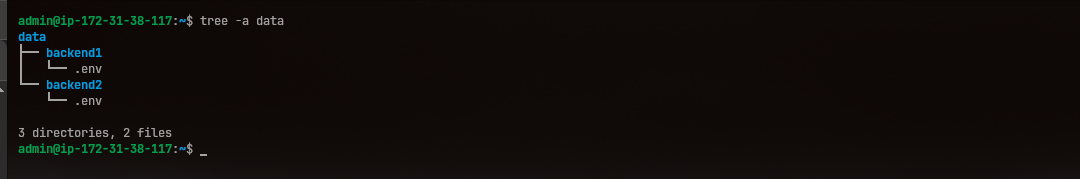
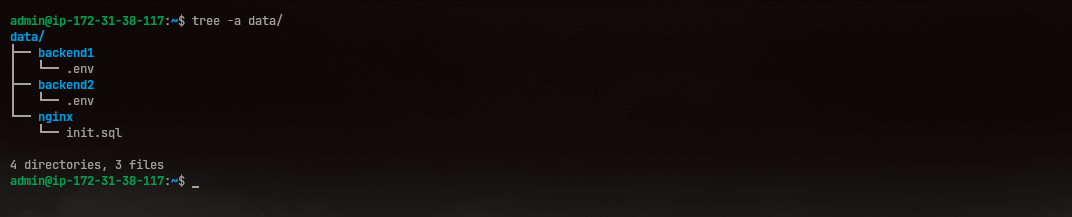
add: trivy image scanning

Changed region(s): [[0.0, 0.0, 0.2771, 0.8659]]

diff --git a/docs/README.md b/docs/README.md
@@ -275,6 +275,8 @@ For that just create a `data` directory with following contents.
 
 > You can create these `.env` file using `.env.example` file from the respective repo.
 
+For `/home/admin/data/postgres/init.sql` file, copy it from `infra/database/init.sql`.
+
 ## 6. Jenkinsfile and docker-compose.yml
 
 Find these file at the top of the [repo](https://github.com/DevOpsByNavin/blogapp-17)
